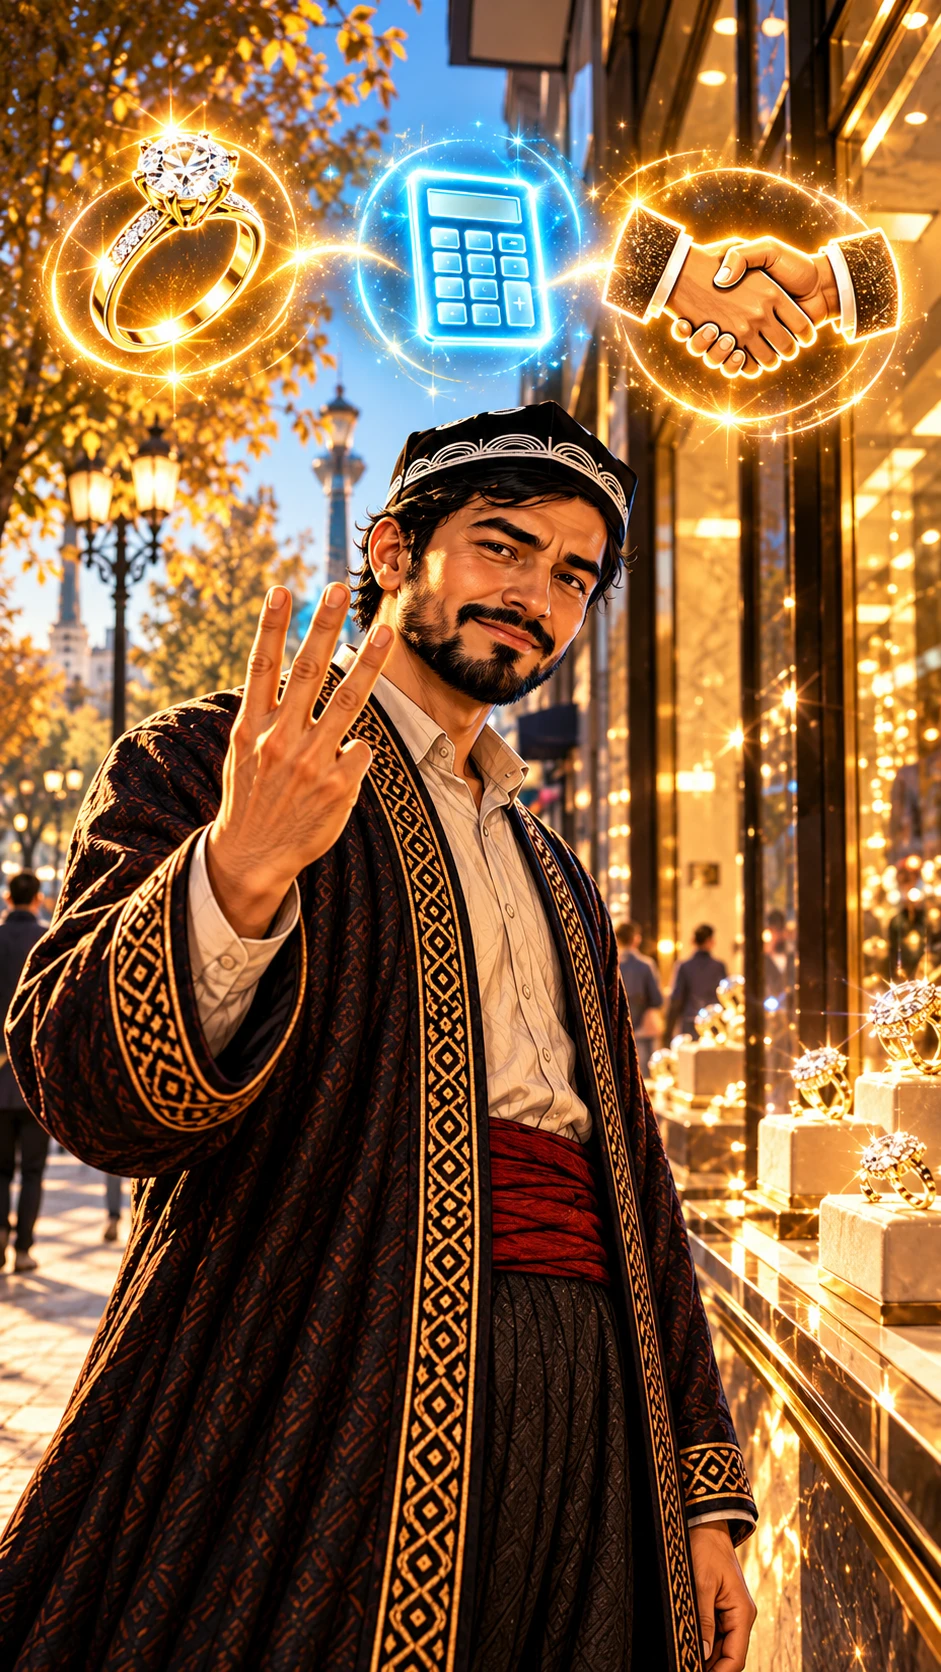
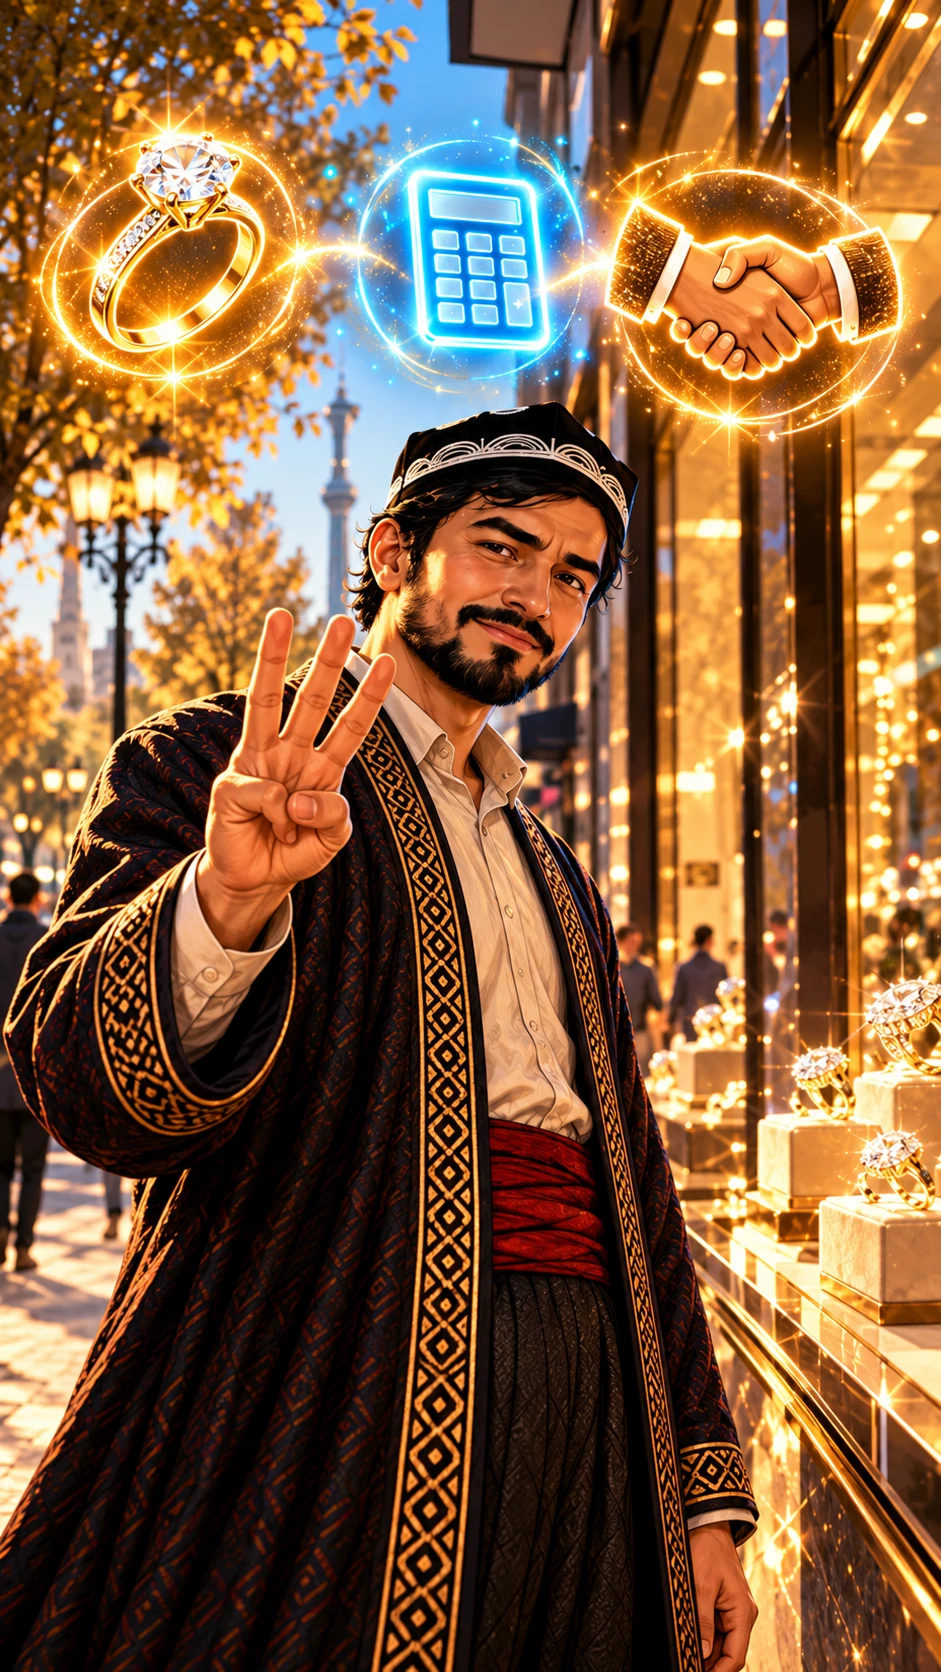
olmos: 11-rasm (3 barmoq) neon fonus bilan, 6b va 8b sahnalari
Claude-Session: https://claude.ai/code/session_01RL3x4tL7VqVmiGwddJSE5k

diff --git a/video/olmos/sahnalar.html b/video/olmos/sahnalar.html
@@ -23,7 +23,7 @@ pre{margin:0;white-space:pre-wrap;word-break:break-word;font-family:var(--mono);
 </style>
 <div class="wrap">
 <h1>«Olmos uzuk» <em>sahnalari</em></h1>
-<p class="intro">15 ta sahna, tartib bilan. Har biri uchun: Veo'da «Frames to video» ni oching, rasmni <b>birinchi kadr</b> joyiga yuklang, <b>9:16</b> va sarlavhadagi uzunlikni (6 yoki 8 s) qo'ying, «Nusxa olish» bilan promptni qo'ying. Rasmlardagi yaqin fonuslar ko'k neonga bo'yalgan — yangi rasmni yuklang. 6-sahna: siz yuborgan 1-variant (gul va lampa). 11-sahna — barmoq tahriridan keyin. Diyor bor har promptda neon chizig'i, tarix sahnalarida (5, 6, 8) «eski surat, realistik ko'rinish o'zgarmasin» deb yozilgan. 5, 6, 8, 10b-sahnalarda hech kim gapirmaydi — Usta ovozi keyin qo'yiladi.</p>
+<p class="intro">15 ta sahna, tartib bilan. Har biri uchun: Veo'da «Frames to video» ni oching, rasmni <b>birinchi kadr</b> joyiga yuklang, <b>9:16</b> va sarlavhadagi uzunlikni (6 yoki 8 s) qo'ying, «Nusxa olish» bilan promptni qo'ying. Rasmlardagi yaqin fonuslar ko'k neonga bo'yalgan — yangi rasmni yuklang. 6 va 8-sahnalar ikkiga bo'lingan (6+6b, 8+8b — bitta rasmdan ikki xil kamera), Usta gapi to'liq sig'adi. 6-sahna: siz yuborgan 1-variant (gul va lampa). 11-sahna tuzatildi. Diyor bor har promptda neon chizig'i, tarix sahnalarida (5, 6, 8) «eski surat, realistik ko'rinish o'zgarmasin» deb yozilgan. 5, 6, 8, 10b-sahnalarda hech kim gapirmaydi — Usta ovozi keyin qo'yiladi.</p>
 <article class="card"><header><span class="num">1</span><h2>1-sahna — 9:16 (tik), 6 s</h2></header>
 <div class="row"><figure class="sc"><img src="web/s01.webp" alt="1-sahna rasmi"><figcaption>Veo'ga: s01.png</figcaption></figure>
 <div class="txt"><span class="lbl">Ovoz</span><p class="voice">Usta: «Olmos noyob emas. Senga shunday deb aytishgan.»</p>
@@ -52,7 +52,11 @@ pre{margin:0;white-space:pre-wrap;word-break:break-word;font-family:var(--mono);
 <div class="row"><figure class="sc"><img src="web/s06.webp" alt="6-sahna rasmi"><figcaption>Veo'ga: s06.png</figcaption></figure>
 <div class="txt"><span class="lbl">Ovoz</span><p class="voice">Usta (kadr ortidan): «1947-yil. Bitta shior yoziladi: ‘Olmos — abadiy’…»</p>
 <span class="lbl">Kamera: mashinkaga juda sekin yaqinlashish — tarixiy lahza, shior tug&#x27;ilyapti</span>
-<pre id="v6">Vertical 9:16, 8 seconds. Start from the attached image. Camera: very slow push-in toward the typewriter paper. The hands type steadily on the old typewriter, the keys strike, the carriage slides to the left and rings at the end of the line; the desk lamp flickers softly, the diamond in the open ring box sparkles. Only hands and sleeves, no face. The paper line stays blurred and unreadable. Faces of people stay in shadow or turned away; nobody looks at the camera. One continuous shot, no cuts. This is a history scene: keep its realistic old-photograph look exactly as in the image (warm sepia and gold, soft film grain, natural light), do not turn it into a cartoon and do not add colours. No new text appears; anything written stays blurred and unreadable. No subtitles, no logos. The camera never stops moving.</pre><button class="copy" data-t="v6">Nusxa olish</button></div></div></article><article class="card"><header><span class="num">7</span><h2>7-sahna — 9:16 (tik), 6 s</h2></header>
+<pre id="v6">Vertical 9:16, 8 seconds. Start from the attached image. Camera: very slow push-in toward the typewriter paper. The hands type steadily on the old typewriter, the keys strike, the carriage slides to the left and rings at the end of the line; the desk lamp flickers softly, the diamond in the open ring box sparkles. Only hands and sleeves, no face. The paper line stays blurred and unreadable. Faces of people stay in shadow or turned away; nobody looks at the camera. One continuous shot, no cuts. This is a history scene: keep its realistic old-photograph look exactly as in the image (warm sepia and gold, soft film grain, natural light), do not turn it into a cartoon and do not add colours. No new text appears; anything written stays blurred and unreadable. No subtitles, no logos. The camera never stops moving.</pre><button class="copy" data-t="v6">Nusxa olish</button></div></div></article><article class="card"><header><span class="num">6b</span><h2>6b-sahna — 9:16 (tik), 8 s</h2></header>
+<div class="row"><figure class="sc"><img src="web/s06.webp" alt="6b-sahna rasmi"><figcaption>Veo'ga: s06.png</figcaption></figure>
+<div class="txt"><span class="lbl">Ovoz</span><p class="voice">Usta (kadr ortidan, davomi): «…Keyin bu asrning eng mashhur reklama shiori deb tan olindi.»</p>
+<span class="lbl">Kamera: uzuk qutisiga qarab sekin yon tomonga siljish — shior uzukka bog&#x27;lanadi</span>
+<pre id="v6b">Vertical 9:16, 8 seconds. Start from the attached image. Camera: slow sideways slide to the right from the typewriter to the open ring box, ending on the sparkling ring. The typing hands stop; one hand pulls the finished sheet out of the typewriter and lays it on the desk next to the ring box (the text on it stays blurred and unreadable); the diamond in the red velvet box catches the lamp light and sparkles brighter, steam rises from the coffee cup. Only hands and sleeves, no face. Faces of people stay in shadow or turned away; nobody looks at the camera. One continuous shot, no cuts. This is a history scene: keep its realistic old-photograph look exactly as in the image (warm sepia and gold, soft film grain, natural light), do not turn it into a cartoon and do not add colours. No new text appears; anything written stays blurred and unreadable. No subtitles, no logos. The camera never stops moving.</pre><button class="copy" data-t="v6b">Nusxa olish</button></div></div></article><article class="card"><header><span class="num">7</span><h2>7-sahna — 9:16 (tik), 6 s</h2></header>
 <div class="row"><figure class="sc"><img src="web/s07.webp" alt="7-sahna rasmi"><figcaption>Veo'ga: s07.png</figcaption></figure>
 <div class="txt"><span class="lbl">Ovoz</span><p class="voice">Diyor: «Yo&#x27;q, mumkin emas! Shiormi?!»</p>
 <span class="lbl">Kamera: yuzga tez «sakrab» yaqinlashish va titrash — hayrat zarbasi</span>
@@ -60,7 +64,11 @@ pre{margin:0;white-space:pre-wrap;word-break:break-word;font-family:var(--mono);
 <div class="row"><figure class="sc"><img src="web/s08.webp" alt="8-sahna rasmi"><figcaption>Veo'ga: s08.png</figcaption></figure>
 <div class="txt"><span class="lbl">Ovoz</span><p class="voice">Usta (kadr ortidan): «Televizorda, gazetada, kinoda — har joyda: uzuk olmosli bo&#x27;lsin, deyishdi…»</p>
 <span class="lbl">Kamera: eski narsalar ustidan chapdan o&#x27;ngga suzish — reklama hamma joyda edi</span>
-<pre id="v8">Vertical 9:16, 8 seconds. Start from the attached image. Camera: slow sideways glide from left to right over the vintage objects. The old TV screen flickers with the ring on the woman&#x27;s hand, the film strip slides slowly, the cinema lamp in the corner glows, the diamonds on the poster, the newspaper and in the red box sparkle one after another. No new text appears; everything written stays blurred. Faces of people stay in shadow or turned away; nobody looks at the camera. One continuous shot, no cuts. This is a history scene: keep its realistic old-photograph look exactly as in the image (warm sepia and gold, soft film grain, natural light), do not turn it into a cartoon and do not add colours. No new text appears; anything written stays blurred and unreadable. No subtitles, no logos. The camera never stops moving.</pre><button class="copy" data-t="v8">Nusxa olish</button></div></div></article><article class="card"><header><span class="num">9</span><h2>9-sahna — 9:16 (tik), 6 s</h2></header>
+<pre id="v8">Vertical 9:16, 8 seconds. Start from the attached image. Camera: slow sideways glide from left to right over the vintage objects. The old TV screen flickers with the ring on the woman&#x27;s hand, the film strip slides slowly, the cinema lamp in the corner glows, the diamonds on the poster, the newspaper and in the red box sparkle one after another. No new text appears; everything written stays blurred. Faces of people stay in shadow or turned away; nobody looks at the camera. One continuous shot, no cuts. This is a history scene: keep its realistic old-photograph look exactly as in the image (warm sepia and gold, soft film grain, natural light), do not turn it into a cartoon and do not add colours. No new text appears; anything written stays blurred and unreadable. No subtitles, no logos. The camera never stops moving.</pre><button class="copy" data-t="v8">Nusxa olish</button></div></div></article><article class="card"><header><span class="num">8b</span><h2>8b-sahna — 9:16 (tik), 8 s</h2></header>
+<div class="row"><figure class="sc"><img src="web/s08.webp" alt="8b-sahna rasmi"><figcaption>Veo'ga: s08.png</figcaption></figure>
+<div class="txt"><span class="lbl">Ovoz</span><p class="voice">Usta (kadr ortidan, davomi): «…Keyinroq reklama aytdi: uzukka ikki oylik maoshingni sarfla.»</p>
+<span class="lbl">Kamera: qizil qutidagi uzukka sekin yaqinlashish — «ikki oylik maosh» shu toshda</span>
+<pre id="v8b">Vertical 9:16, 8 seconds. Start from the attached image. Camera: slow push-in from the whole table to the red velvet ring box, ending on the sparkling diamond. The film strip stops, the old TV flickers and dims, the cinema lamp glows warmer; the diamond in the red box sparkles brighter and brighter as the camera comes closer. No new text appears; everything written stays blurred. Faces of people stay in shadow or turned away; nobody looks at the camera. One continuous shot, no cuts. This is a history scene: keep its realistic old-photograph look exactly as in the image (warm sepia and gold, soft film grain, natural light), do not turn it into a cartoon and do not add colours. No new text appears; anything written stays blurred and unreadable. No subtitles, no logos. The camera never stops moving.</pre><button class="copy" data-t="v8b">Nusxa olish</button></div></div></article><article class="card"><header><span class="num">9</span><h2>9-sahna — 9:16 (tik), 6 s</h2></header>
 <div class="row"><figure class="sc"><img src="web/s09.webp" alt="9-sahna rasmi"><figcaption>Veo'ga: s09.png</figcaption></figure>
 <div class="txt"><span class="lbl">Ovoz</span><p class="voice">Usta: «Sen sevgi sotib olmayapsan. Kredit sotib olyapsan.»</p>
 <span class="lbl">Kamera: fokus telefondan Diyor yuziga o&#x27;tadi — raqamdan hissiyotga</span>

diff --git a/video/olmos/veo_promptlar.py b/video/olmos/veo_promptlar.py
@@ -61,6 +61,11 @@ S = [
   "The hands type steadily on the old typewriter, the keys strike, the carriage slides to the left and rings at the end of the line; the desk lamp flickers softly, "
   "the diamond in the open ring box sparkles. Only hands and sleeves, no face. The paper line stays blurred and unreadable.",
   [], ""),
+ ("6b", "s06", "Usta (kadr ortidan, davomi): «…Keyin bu asrning eng mashhur reklama shiori deb tan olindi.»", "uzuk qutisiga qarab sekin yon tomonga siljish — shior uzukka bog'lanadi",
+  "slow sideways slide to the right from the typewriter to the open ring box, ending on the sparkling ring",
+  "The typing hands stop; one hand pulls the finished sheet out of the typewriter and lays it on the desk next to the ring box (the text on it stays blurred and unreadable); "
+  "the diamond in the red velvet box catches the lamp light and sparkles brighter, steam rises from the coffee cup. Only hands and sleeves, no face.",
+  [], ""),
  ("7", "s07", "Diyor: «Yo'q, mumkin emas! Shiormi?!»", "yuzga tez «sakrab» yaqinlashish va titrash — hayrat zarbasi",
   "fast snap push-in to Diyor's face, then a tiny shake",
   "Diyor shouts in shock, eyes huge, eyebrows high, both hands pressing his cheeks; his hair bounces, the cyan outline flickers brighter for a moment. The rings in the window sparkle.",
@@ -68,6 +73,11 @@ S = [
  ("8", "s08", "Usta (kadr ortidan): «Televizorda, gazetada, kinoda — har joyda: uzuk olmosli bo'lsin, deyishdi…»", "eski narsalar ustidan chapdan o'ngga suzish — reklama hamma joyda edi",
   "slow sideways glide from left to right over the vintage objects",
   "The old TV screen flickers with the ring on the woman's hand, the film strip slides slowly, the cinema lamp in the corner glows, the diamonds on the poster, the newspaper and in the red box sparkle one after another. "
+  "No new text appears; everything written stays blurred.",
+  [], ""),
+ ("8b", "s08", "Usta (kadr ortidan, davomi): «…Keyinroq reklama aytdi: uzukka ikki oylik maoshingni sarfla.»", "qizil qutidagi uzukka sekin yaqinlashish — «ikki oylik maosh» shu toshda",
+  "slow push-in from the whole table to the red velvet ring box, ending on the sparkling diamond",
+  "The film strip stops, the old TV flickers and dims, the cinema lamp glows warmer; the diamond in the red box sparkles brighter and brighter as the camera comes closer. "
   "No new text appears; everything written stays blurred.",
   [], ""),
  ("9", "s09", "Usta: «Sen sevgi sotib olmayapsan. Kredit sotib olyapsan.»", "fokus telefondan Diyor yuziga o'tadi — raqamdan hissiyotga",
@@ -99,13 +109,13 @@ S = [
   "The phone screen stays exactly as in the image: the chat bubbles and the ring picture. Golden leaves drift, passers-by keep walking.",
   [("Usta", U_V, "To'y xarajatlaringiz ro'yxatini botimizga yozing: sahiychi shop bot.")], "ud"),
 ]
-DUR = {"2b": 8, "3": 8, "5": 8, "6": 8, "8": 8, "11": 8, "12": 8, "13": 8}
+DUR = {"6b": 8, "8b": 8, "2b": 8, "3": 8, "5": 8, "6": 8, "8": 8, "11": 8, "12": 8, "13": 8}
 def vp(n, cam, act, lines, chars):
     dial = f" {say(lines)}" if lines else ""
     lock = LOCK if chars == "ud" else LOCK_D if chars == "d" else LOCK_U if chars == "u" else LOCK_0
     end = END_OLD if n in OLD else END
     return f"Vertical 9:16, {DUR.get(n, 6)} seconds. Start from the attached image. Camera: {cam}. {act}{dial} {lock}{end}"
-OLD = {"5", "6", "8"}
+OLD = {"5", "6", "6b", "8", "8b"}
 
 TOOL = {}
 DONE = {}
@@ -145,7 +155,7 @@ pre{{margin:0;white-space:pre-wrap;word-break:break-word;font-family:var(--mono)
 </style>
 <div class="wrap">
 <h1>«Olmos uzuk» <em>sahnalari</em></h1>
-<p class="intro">15 ta sahna, tartib bilan. Har biri uchun: Veo'da «Frames to video» ni oching, rasmni <b>birinchi kadr</b> joyiga yuklang, <b>9:16</b> va sarlavhadagi uzunlikni (6 yoki 8 s) qo'ying, «Nusxa olish» bilan promptni qo'ying. Rasmlardagi yaqin fonuslar ko'k neonga bo'yalgan — yangi rasmni yuklang. 6-sahna: siz yuborgan 1-variant (gul va lampa). 11-sahna — barmoq tahriridan keyin. Diyor bor har promptda neon chizig'i, tarix sahnalarida (5, 6, 8) «eski surat, realistik ko'rinish o'zgarmasin» deb yozilgan. 5, 6, 8, 10b-sahnalarda hech kim gapirmaydi — Usta ovozi keyin qo'yiladi.</p>
+<p class="intro">15 ta sahna, tartib bilan. Har biri uchun: Veo'da «Frames to video» ni oching, rasmni <b>birinchi kadr</b> joyiga yuklang, <b>9:16</b> va sarlavhadagi uzunlikni (6 yoki 8 s) qo'ying, «Nusxa olish» bilan promptni qo'ying. Rasmlardagi yaqin fonuslar ko'k neonga bo'yalgan — yangi rasmni yuklang. 6 va 8-sahnalar ikkiga bo'lingan (6+6b, 8+8b — bitta rasmdan ikki xil kamera), Usta gapi to'liq sig'adi. 6-sahna: siz yuborgan 1-variant (gul va lampa). 11-sahna tuzatildi. Diyor bor har promptda neon chizig'i, tarix sahnalarida (5, 6, 8) «eski surat, realistik ko'rinish o'zgarmasin» deb yozilgan. 5, 6, 8, 10b-sahnalarda hech kim gapirmaydi — Usta ovozi keyin qo'yiladi.</p>
 {''.join(cards)}
 </div>
 <script>
